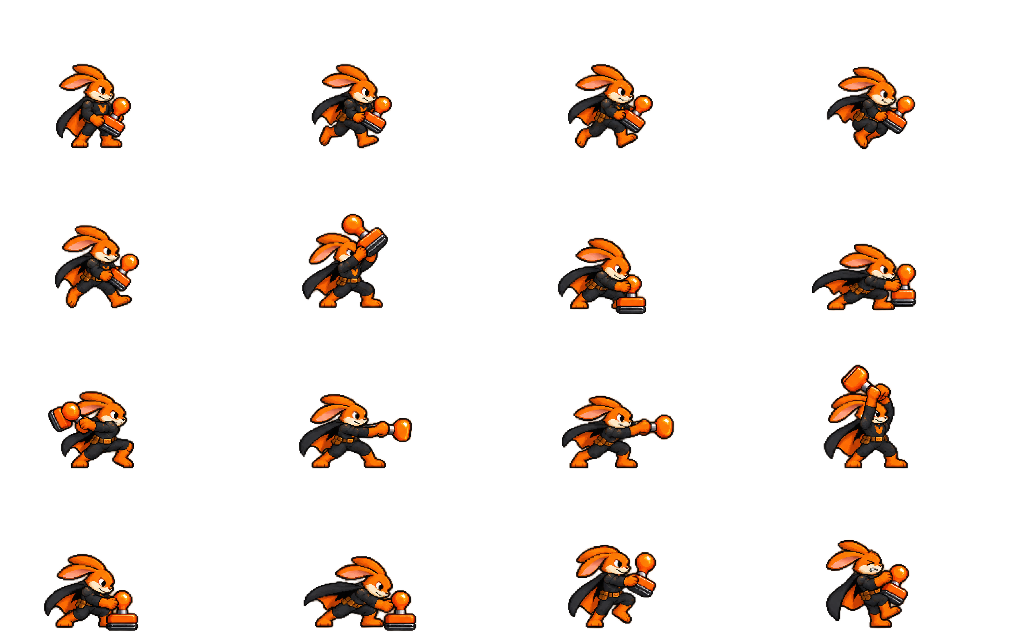
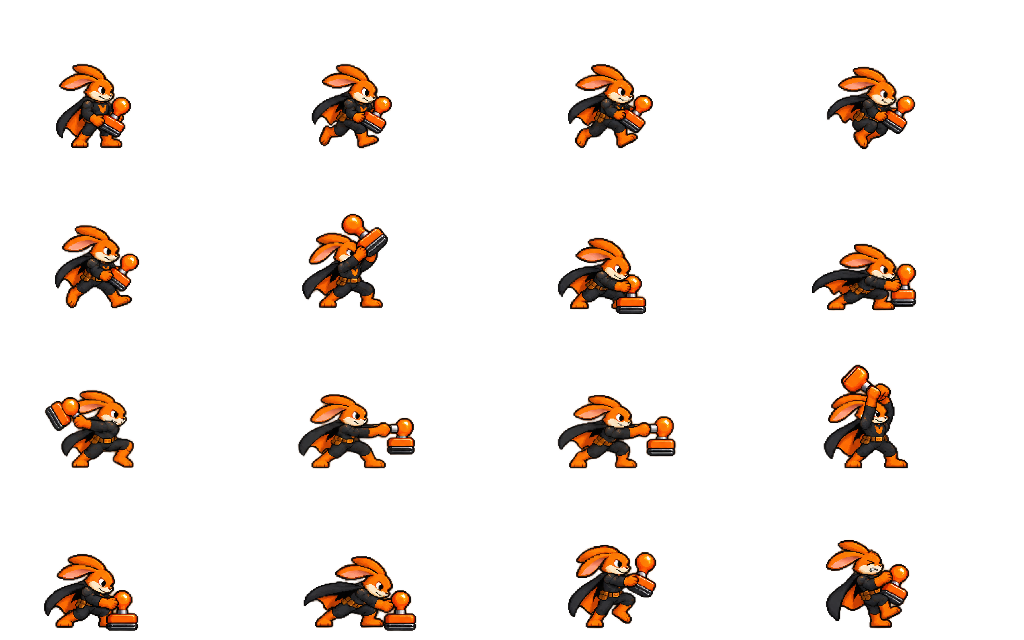
fix(arcade): correct review stamp step two

Changed region(s): [[0.5312, 0.5938, 0.6562, 0.75], [0.0312, 0.5938, 0.125, 0.75], [0.2812, 0.625, 0.4062, 0.75]]

diff --git a/hoppys-adventure-arcade/Assets/hoppy-armed/heroes/PROMPTS.md b/hoppys-adventure-arcade/Assets/hoppy-armed/heroes/PROMPTS.md
@@ -8,6 +8,18 @@ Create a NEW 16-bit pixel-art brawler animation sheet of EXACTLY the armored ora
 
 ## Refinements
 
-Regenerations: 0. The first generated master was retained. After independent visual review, the deterministic packer was corrected to recover connected components across grid gutters, plant every frame's feet at its gameplay pivot, store per-frame hand and attack-tip anchors on solid painted pixels, and calibrate carry icons to the baked hold_idle weapon length. Ground-lined runtime clip strips were added for motion inspection. These were packing changes, not image regenerations.
+Regenerations: 1. Juan approved the pilot style and requested one targeted redo of the step 2 sweep frames. The generation-zero master is retained in `sources/review_stamp-generation0.png`. Only regenerated connected sprites 9, 10, and 11 were merged into the approved master; the other thirteen source sprites remain unchanged. The deterministic packer then recovered components across grid gutters, planted every frame's feet at its gameplay pivot, stored per-frame hand and attack-tip anchors on solid painted pixels, and calibrated carry icons to the baked hold_idle weapon length.
 
-Inspection note: In step 2 contact/follow, the review stamp's rectangular base can read like a boxing glove or plunger. It was retained for pilot approval rather than regenerated.
+### Regeneration 1 refinement prompt
+
+Use case: precise-object-edit
+Asset type: 4x4 transparent pixel-art brawler sprite-sheet source master
+Input image: the provided 4x4 armored orange rabbit sprite sheet is the edit target.
+Primary request: Change only row 3, columns 1 through 3, frames 9, 10, and 11, the three step-2 sweep poses. Preserve frames 1-8 and 12-16 exactly as provided: their pixels, pose, palette, transparent background, grid spacing, margins, and complete sprites.
+Subject: the exact same armored orange rabbit, cream muzzle, long orange ears, black and charcoal suit, orange chest crest, belt, dark cape, orange legs, facing right.
+Critical correction: In EACH of frames 9, 10, and 11, Hoppy holds a complete orange review-stamp with the rounded orange knob clearly enclosed by the near paw AND the full rectangular orange-and-black stamp base visibly attached below it. The rectangular base must be visible, chunky, opaque, and unmistakable, matching the base silhouette, orange, amber highlight, charcoal, white highlight, and steel-gray colours already visible in frames 6-8 and 12-14. It must not resemble a boxing glove, plunger, floating knob, club, or hammer.
+Pose detail: Frame 9 sweep windup has stamp raised/back with complete base; frame 10 sweep contact projects the stamp forward with its complete rectangular base visible; frame 11 sweep follow-through has the complete base visibly attached and readable. Keep the knob in a rabbit paw in all three.
+Style/medium: crisp 16-bit pixel art at the same chunky pixel density as every unchanged rabbit and stamp frame. Exact 4 columns x 4 rows, equal cell spacing, generous transparent gutters, no grid lines, no text, no shadows, no detached effects, no new characters, no backgrounds.
+Constraints: change only frames 9-11; retain transparent alpha; every frame remains a single complete connected sprite fully inside its own cell; preserve rabbit identity and feet baseline.
+
+Inspection result: Frames 9-11 now show the complete rectangular stamp base, with the rounded knob held in Hoppy's paw. This was a targeted art regeneration; registration, anchors, carries, previews, and clip strips were rebuilt afterward.
